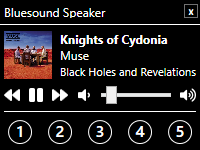
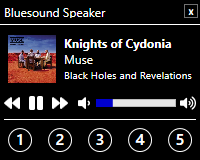
BluMiniPlayer minor changes

diff --git a/samples/BluMiniPlayer/MainWindow.xaml b/samples/BluMiniPlayer/MainWindow.xaml
@@ -6,22 +6,22 @@
         xmlns:fa5="http://schemas.fontawesome.com/icons/"
         Title="MainWindow" 
         Width="200"
-        Height="150"
+        Height="160"
         ResizeMode="NoResize" 
         ShowInTaskbar="False"
-        WindowStyle="None" WindowStartupLocation="CenterScreen" MouseMove="Window_MouseMove" Topmost="True">
+        WindowStyle="None" WindowStartupLocation="CenterScreen" Topmost="True">
     <StackPanel Background="Black" Orientation="Vertical">
         <StackPanel.Resources>
             <Style TargetType="TextBlock">
                 <Setter Property="Foreground" Value="White" />
             </Style>
         </StackPanel.Resources>
-        <DockPanel>
+        <DockPanel x:Name="Caption" MouseMove="Caption_MouseMove" >
             <Button x:Name="CloseButton" DockPanel.Dock="Right" Content="X" Height="14" Width="14" Margin="2" FontSize="8" FontWeight="Bold" Background="Black" Foreground="White" Click="CloseButton_Click" />
             <TextBlock Text="{Binding PlayerName, FallbackValue=Bluesound}" Margin="4" Height="14" />
-        </DockPanel> 
+        </DockPanel>
         <Separator Background="White"  />
-        <DockPanel>
+        <DockPanel Margin="4">
             <Image Margin="4" Source="{Binding MediaImageUri, FallbackValue=https://www.musicmeter.nl/images/cover/51000/51283.jpg}" Width="48"></Image>
             <StackPanel Orientation="Vertical" Margin="4">
                 <Viewbox Height="16" HorizontalAlignment="Left" >
@@ -50,7 +50,7 @@
             <fa5:SvgAwesome x:Name="PauseButton" Icon="Solid_Pause" Tag="Pause" MouseDown="Action_MouseDown" Visibility="Collapsed" />
             <fa5:SvgAwesome Icon="Solid_Forward" Tag="Skip" MouseDown="Action_MouseDown" />
             <fa5:SvgAwesome Tag="Down" Icon="Solid_VolumeDown" MouseDown="ChangeVolume_MouseDown"  />
-            <Slider Width="80" VerticalAlignment="Center" Maximum="100" Value="{Binding Volume}" ></Slider>
+            <ProgressBar Width="80" Height="8" Minimum="0" Maximum="100" Value="{Binding Volume, FallbackValue=50}" Foreground="MediumBlue"  />
             <fa5:SvgAwesome Tag="Up" Icon="Solid_VolumeUp" MouseDown="ChangeVolume_MouseDown" />
         </StackPanel>
         <Separator Background="White" Margin="4"  />
@@ -92,6 +92,6 @@
                 <Ellipse />
                 <TextBlock>5</TextBlock>
             </Grid>
-        </UniformGrid>        
+        </UniformGrid>
     </StackPanel>
 </Window>

diff --git a/samples/BluMiniPlayer/MainWindow.xaml.cs b/samples/BluMiniPlayer/MainWindow.xaml.cs
@@ -129,13 +129,6 @@ namespace BluMiniPlayer
             Close();
         }
 
-        private void Window_MouseMove(object sender, System.Windows.Input.MouseEventArgs e)
-        {
-            if (e.LeftButton == System.Windows.Input.MouseButtonState.Pressed)
-            {
-                DragMove();
-            }
-        }
 
         private async void Preset_MouseDown(object sender, System.Windows.Input.MouseButtonEventArgs e)
         {
@@ -176,12 +169,20 @@ namespace BluMiniPlayer
                 switch (element.Tag)
                 {
                     case "Up":
-                        await Player.SetVolume(volume + 1);
+                        await Player.SetVolume(volume + 2);
                         break;
                     case "Down":
-                        await Player.SetVolume(volume - 1);
+                        await Player.SetVolume(volume - 2);
                         break;
                 }
+            }
+        }
+
+        private void Caption_MouseMove(object sender, System.Windows.Input.MouseEventArgs e)
+        {
+            if (e.LeftButton == System.Windows.Input.MouseButtonState.Pressed)
+            {
+                DragMove();
             }
         }
     }
